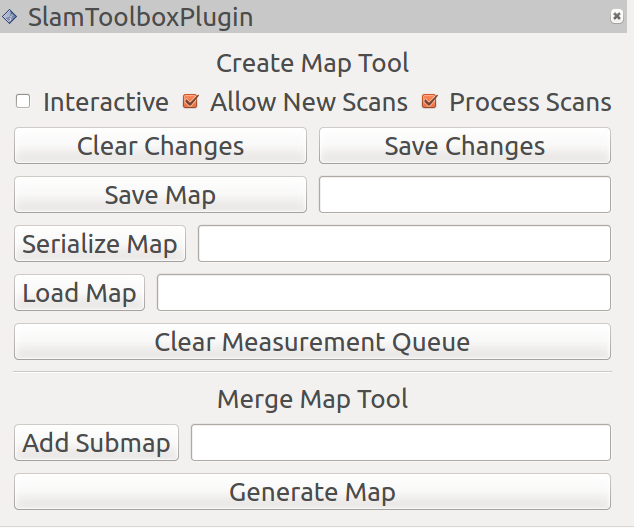
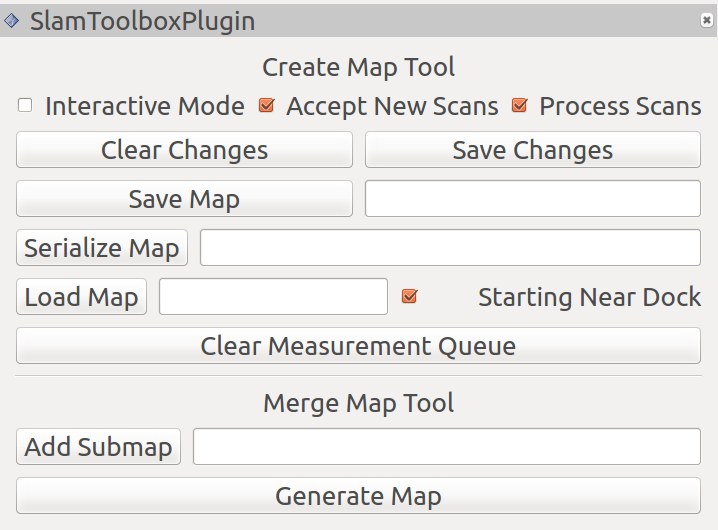
move old solvers to deprecated and API update

Changed region(s): [[0.0, 0.0, 1.0, 0.697], [0.03, 0.7273, 0.989, 0.9697]]

diff --git a/src/slam_toolbox.cpp b/src/slam_toolbox.cpp
@@ -1200,6 +1200,7 @@ bool SlamToolbox::DeserializePoseGraphCallback( \
   }
 
   mapper->SetScanSolver(solver_.get());
+
   {
     boost::mutex::scoped_lock lock(mapper_mutex_);
     if (mapper_)
@@ -1234,6 +1235,12 @@ bool SlamToolbox::DeserializePoseGraphCallback( \
                slam_toolbox::DeserializePoseGraph::Request::START_AT_FIRST_NODE)
   {
     match_against_first_node_ = true;
+  }
+  else if (req.match_location == \
+               slam_toolbox::DeserializePoseGraph::Request::START_AT_GIVEN_POSE)
+  {
+    ROS_WARN("DeserializePoseGraph: Starting mapping from last position, "
+             "starting at a given pose is not yet implemented.");
   }
   else
   {
